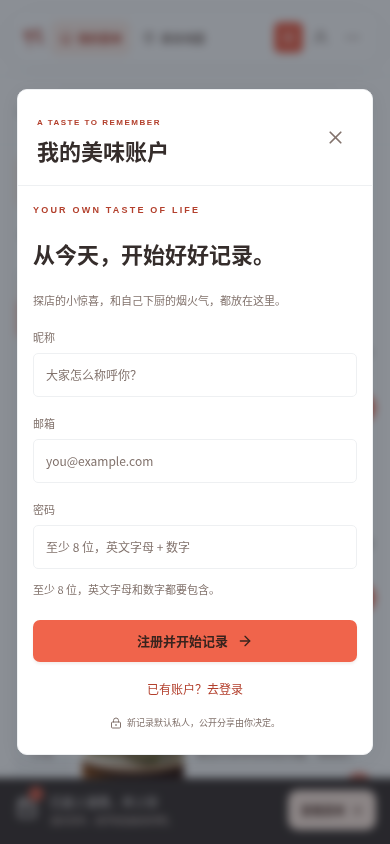
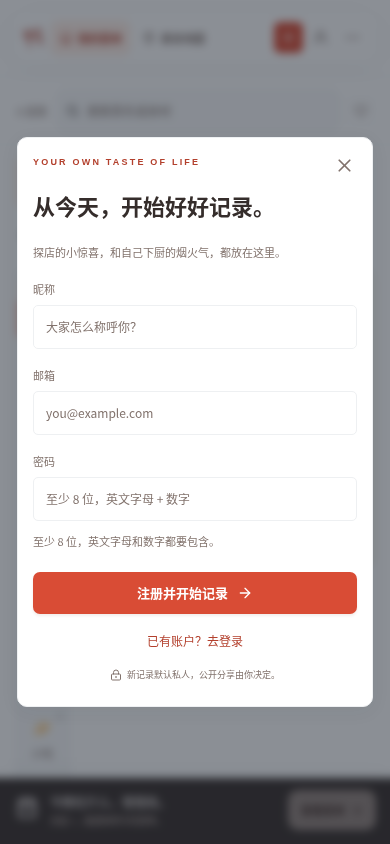
Remove the outer heading from the login dialog

diff --git a/components/Modal.tsx b/components/Modal.tsx
@@ -6,11 +6,13 @@ export default function Modal({
   children,
   onClose,
   wide = false,
+  hideHeader = false,
 }: {
   title: string;
   children: React.ReactNode;
   onClose: () => void;
   wide?: boolean;
+  hideHeader?: boolean;
 }) {
   const dialog = useRef<HTMLDialogElement>(null);
   useEffect(() => {
@@ -23,10 +25,21 @@ export default function Modal({
       document.body.style.overflow = previous;
     };
   }, []);
+  const closeButton = (
+    <button
+      className="icon-button"
+      type="button"
+      aria-label="关闭"
+      onClick={onClose}
+    >
+      <X size={21} />
+    </button>
+  );
   return (
     <dialog
       ref={dialog}
       className={`modal ${wide ? "wide" : ""}`}
+      aria-label={hideHeader ? title : undefined}
       onCancel={(e) => {
         e.preventDefault();
         onClose();
@@ -44,20 +57,17 @@ export default function Modal({
         }
       }}
     >
-      <header className="modal-heading">
-        <div>
-          <span className="eyebrow">A TASTE TO REMEMBER</span>
-          <h2>{title}</h2>
-        </div>
-        <button
-          className="icon-button"
-          type="button"
-          aria-label="关闭"
-          onClick={onClose}
-        >
-          <X size={21} />
-        </button>
-      </header>
+      {hideHeader ? (
+        <div className="modal-dismiss">{closeButton}</div>
+      ) : (
+        <header className="modal-heading">
+          <div>
+            <span className="eyebrow">A TASTE TO REMEMBER</span>
+            <h2>{title}</h2>
+          </div>
+          {closeButton}
+        </header>
+      )}
       {children}
     </dialog>
   );

diff --git a/app/features.css b/app/features.css
@@ -50,6 +50,17 @@ html[data-theme] .map-application .topbar-dropdown button {
   z-index: 1000;
   background: var(--white);
 }
+.modal-dismiss {
+  position: sticky;
+  top: 0;
+  height: 0;
+  z-index: 1001;
+}
+.modal-dismiss > .icon-button {
+  position: absolute;
+  top: 10px;
+  right: 10px;
+}
 html .map-application.menu-application .empty-actions .recipe-create-button {
   background: var(--white);
   color: var(--accent-ink, var(--rust));

diff --git a/components/Diary.tsx b/components/Diary.tsx
@@ -910,7 +910,11 @@ export default function Diary() {
         />
       )}
       {authOpen && (
-        <Modal title="我的美味账户" onClose={() => setAuthOpen(false)}>
+        <Modal
+          title="我的美味账户"
+          hideHeader
+          onClose={() => setAuthOpen(false)}
+        >
           <AuthForm onSuccess={signedIn} registrationOpen={registrationOpen} />
         </Modal>
       )}
